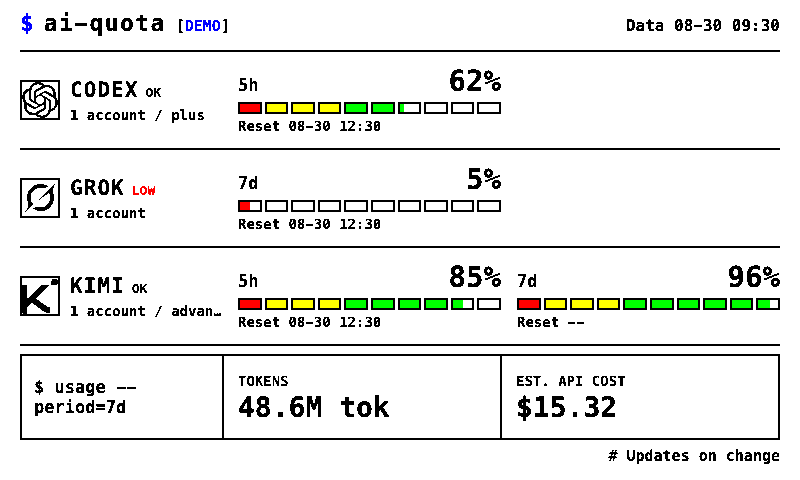
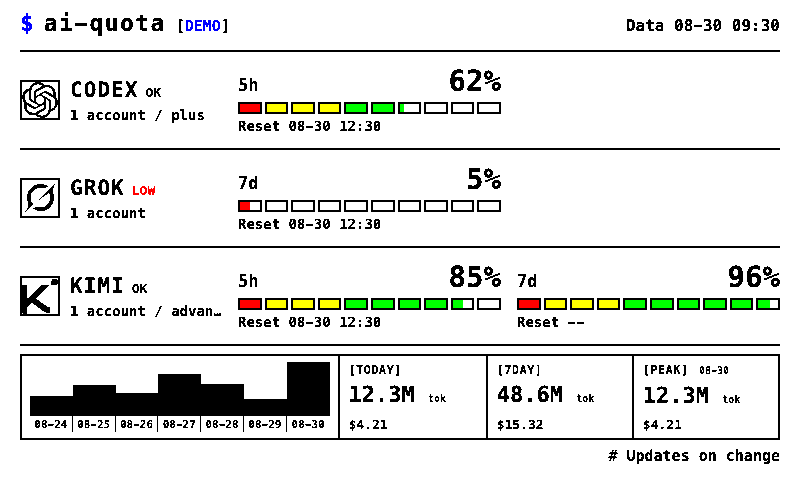
feat: redesign compact usage panel

Changed region(s): [[0.0312, 0.75, 0.5625, 0.9062], [0.5938, 0.75, 0.9375, 0.9062], [0.7812, 0.875, 0.8438, 0.9062]]

diff --git a/internal/dashboard/templates/frame.css b/internal/dashboard/templates/frame.css
@@ -231,7 +231,7 @@ html, body {
   color: var(--faint);
 }
 
-/* seven-day usage summary */
+/* compact seven-day usage panel */
 
 .usage-card {
   display: flex;
@@ -240,29 +240,69 @@ html, body {
   border: 2px solid var(--ink);
 }
 
-.usage-title {
-  display: flex;
-  flex: 0 0 202px;
-  align-items: center;
-  padding: 0 12px;
+.usage-history {
+  flex: 0 0 42%;
+  min-width: 0;
+  padding: 6px 8px 4px;
   border-right: 2px solid var(--ink);
-  font-size: 17px;
+}
+
+.usage-bars {
+  display: flex;
+  width: 100%;
+  height: 70px;
+}
+
+.usage-day {
+  display: flex;
+  flex: 1 1 0;
+  min-width: 0;
+  flex-direction: column;
+}
+
+.usage-bar-slot {
+  display: flex;
+  flex: 1;
+  min-height: 0;
+  align-items: flex-end;
+  border-bottom: 2px solid var(--ink);
+}
+
+.usage-bar {
+  display: block;
+  width: 100%;
+  background: var(--ink);
+}
+
+.usage-date {
+  height: 16px;
+  overflow: hidden;
+  padding-top: 3px;
+  border-right: 1px solid var(--ink);
+  font-size: 11px;
   font-weight: 700;
+  line-height: 11px;
+  text-align: center;
+  white-space: nowrap;
+}
+
+.usage-day:last-child .usage-date {
+  border-right: 0;
 }
 
 .usage-metrics {
-  display: flex;
+  display: grid;
+  grid-template-columns: repeat(3, minmax(0, 1fr));
   flex: 1;
   min-width: 0;
 }
 
 .usage-metric {
   display: flex;
-  flex: 1;
   min-width: 0;
   flex-direction: column;
-  justify-content: center;
-  padding: 6px 14px;
+  justify-content: space-between;
+  padding: 7px 9px 6px;
 }
 
 .usage-metric + .usage-metric {
@@ -270,16 +310,40 @@ html, body {
 }
 
 .usage-label {
-  font-size: 14px;
+  overflow: hidden;
+  font-size: 12px;
+  font-weight: 700;
+  line-height: 14px;
+  letter-spacing: 0.03em;
+  text-overflow: ellipsis;
+  white-space: nowrap;
+}
+
+.usage-label span {
+  margin-left: 3px;
+  font-size: 10px;
+  letter-spacing: 0;
+}
+
+.usage-tokens {
+  overflow: hidden;
+  font-size: 22px;
+  font-weight: 700;
+  line-height: 24px;
+  text-overflow: ellipsis;
+  white-space: nowrap;
+}
+
+.usage-tokens small {
+  font-size: 10px;
   font-weight: 700;
 }
 
-.usage-value {
-  margin-top: 5px;
+.usage-cost {
   overflow: hidden;
-  font-size: 28px;
+  font-size: 13px;
   font-weight: 700;
-  line-height: 1;
+  line-height: 15px;
   text-overflow: ellipsis;
   white-space: nowrap;
 }
@@ -295,7 +359,7 @@ html, body {
 }
 
 .usage-unavailable strong {
-  font-size: 24px;
+  font-size: 22px;
   letter-spacing: 0.08em;
 }
 

diff --git a/internal/dashboard/templates/frame.html b/internal/dashboard/templates/frame.html
@@ -54,21 +54,43 @@
 
     <section class="usage-card">
       {{if .Usage}}
-      <div class="usage-title">$ usage --period=7d</div>
+      <div class="usage-history" aria-label="7 day token history">
+        <div class="usage-bars">
+          {{range .Usage.Days}}
+          <div class="usage-day" title="{{.Title}}">
+            <div class="usage-bar-slot"><span class="usage-bar" style="height: {{.Height}}%;"></span></div>
+            <span class="usage-date">{{.Label}}</span>
+          </div>
+          {{end}}
+        </div>
+      </div>
       <div class="usage-metrics">
+        {{with .Usage.Today}}
         <div class="usage-metric">
-          <span class="usage-label">TOKENS</span>
-          <span class="usage-value">{{.Usage.Tokens}}</span>
+          <div class="usage-label">[{{.Label}}]</div>
+          <div class="usage-tokens">{{.Tokens}} <small>tok</small></div>
+          <div class="usage-cost">{{.Cost}}</div>
         </div>
+        {{end}}
+        {{with .Usage.SevenDay}}
         <div class="usage-metric">
-          <span class="usage-label">EST. API COST</span>
-          <span class="usage-value">{{.Usage.Cost}}</span>
+          <div class="usage-label">[{{.Label}}]</div>
+          <div class="usage-tokens">{{.Tokens}} <small>tok</small></div>
+          <div class="usage-cost">{{.Cost}}</div>
         </div>
+        {{end}}
+        {{with .Usage.Peak}}
+        <div class="usage-metric">
+          <div class="usage-label">[{{.Label}}] <span>{{.Note}}</span></div>
+          <div class="usage-tokens">{{.Tokens}} <small>tok</small></div>
+          <div class="usage-cost">{{.Cost}}</div>
+        </div>
+        {{end}}
       </div>
       {{else}}
       <div class="usage-unavailable">
         <span>$ usage --period=7d</span>
-        <strong>UNAVAILABLE</strong>
+        <strong>NO USAGE DATA</strong>
       </div>
       {{end}}
     </section>

diff --git a/internal/dashboard/viewmodel.go b/internal/dashboard/viewmodel.go
@@ -44,6 +44,21 @@ type barSegmentData struct {
 }
 
 type usageData struct {
+	Days     []usageDayData
+	Today    usageMetricData
+	SevenDay usageMetricData
+	Peak     usageMetricData
+}
+
+type usageDayData struct {
+	Label  string
+	Height int
+	Title  string
+}
+
+type usageMetricData struct {
+	Label  string
+	Note   string
 	Tokens string
 	Cost   string
 }
@@ -176,10 +191,72 @@ func buildUsageData(usage *quota.Usage) *usageData {
 	if currency == "" {
 		currency = "$"
 	}
-	return &usageData{
-		Tokens: formatTokens(sumTokens(usage.Days)) + " tok",
-		Cost:   fmt.Sprintf("%s%.2f", currency, sumCost(usage.Days)),
+	days := usage.Days
+	if len(days) > 7 {
+		days = days[len(days)-7:]
 	}
+
+	var peak quota.UsageDay
+	var maxTokens int64
+	for _, day := range days {
+		if day.Tokens > maxTokens {
+			maxTokens = day.Tokens
+			peak = day
+		}
+	}
+
+	chartDays := make([]usageDayData, 0, len(days))
+	for _, day := range days {
+		chartDays = append(chartDays, usageDayData{
+			Label:  formatUsageDate(day.Date),
+			Height: usageBarHeight(day.Tokens, maxTokens),
+			Title:  formatTokens(day.Tokens) + " tok",
+		})
+	}
+
+	return &usageData{
+		Days: chartDays,
+		Today: usageMetricData{
+			Label:  "TODAY",
+			Tokens: formatTokens(usage.TodayTokens),
+			Cost:   fmt.Sprintf("%s%.2f", currency, usage.TodayCost),
+		},
+		SevenDay: usageMetricData{
+			Label:  "7DAY",
+			Tokens: formatTokens(sumTokens(days)),
+			Cost:   fmt.Sprintf("%s%.2f", currency, sumCost(days)),
+		},
+		Peak: usageMetricData{
+			Label:  "PEAK",
+			Note:   formatUsageDate(peak.Date),
+			Tokens: formatTokens(peak.Tokens),
+			Cost:   fmt.Sprintf("%s%.2f", currency, peak.Cost),
+		},
+	}
+}
+
+func formatUsageDate(value string) string {
+	if parsed, err := time.Parse("2006-01-02", value); err == nil {
+		return parsed.Format("01-02")
+	}
+	if len(value) > 5 {
+		return value[len(value)-5:]
+	}
+	return value
+}
+
+func usageBarHeight(value, maximum int64) int {
+	if value <= 0 || maximum <= 0 {
+		return 0
+	}
+	height := int(float64(value) / float64(maximum) * 100)
+	if height < 4 {
+		return 4
+	}
+	if height > 100 {
+		return 100
+	}
+	return height
 }
 
 func sumTokens(days []quota.UsageDay) int64 {

diff --git a/internal/dashboard/viewmodel_test.go b/internal/dashboard/viewmodel_test.go
@@ -23,11 +23,31 @@ func TestBuildFrameDataSummarizesSevenDayUsage(t *testing.T) {
 	if data.Usage == nil {
 		t.Fatal("Usage = nil, want seven-day summary")
 	}
-	if data.Usage.Tokens != "4.6M tok" {
-		t.Fatalf("Usage.Tokens = %q, want %q", data.Usage.Tokens, "4.6M tok")
+	if data.Usage.Today.Tokens != "999" || data.Usage.Today.Cost != "€9.99" {
+		t.Fatalf("Usage.Today = %#v, want current usage values", data.Usage.Today)
 	}
-	if data.Usage.Cost != "€3.75" {
-		t.Fatalf("Usage.Cost = %q, want %q", data.Usage.Cost, "€3.75")
+	if data.Usage.SevenDay.Tokens != "4.6M" || data.Usage.SevenDay.Cost != "€3.75" {
+		t.Fatalf("Usage.SevenDay = %#v, want seven-day summary", data.Usage.SevenDay)
+	}
+	if data.Usage.Peak.Tokens != "3.4M" || data.Usage.Peak.Cost != "€2.50" || data.Usage.Peak.Note != "09-01" {
+		t.Fatalf("Usage.Peak = %#v, want peak day summary", data.Usage.Peak)
+	}
+	if len(data.Usage.Days) != 2 || data.Usage.Days[0].Height != 35 || data.Usage.Days[1].Height != 100 {
+		t.Fatalf("Usage.Days = %#v, want normalized compact chart", data.Usage.Days)
+	}
+}
+
+func TestBuildUsageDataKeepsOnlyLatestSevenDays(t *testing.T) {
+	days := make([]quota.UsageDay, 8)
+	for index := range days {
+		days[index] = quota.UsageDay{Date: time.Date(2026, time.January, index+1, 0, 0, 0, 0, time.UTC).Format("2006-01-02"), Tokens: int64(index + 1)}
+	}
+	data := buildUsageData(&quota.Usage{Currency: "$", Days: days})
+	if len(data.Days) != 7 || data.Days[0].Label != "01-02" || data.Days[6].Label != "01-08" {
+		t.Fatalf("Days = %#v, want latest seven dates", data.Days)
+	}
+	if data.SevenDay.Tokens != "35" || data.Peak.Note != "01-08" {
+		t.Fatalf("summary = %#v/%#v, want values based on latest seven days", data.SevenDay, data.Peak)
 	}
 }
 

diff --git a/internal/dashboard/render_test.go b/internal/dashboard/render_test.go
@@ -28,7 +28,7 @@ func TestRenderHTMLProducesDocument(t *testing.T) {
 	if err != nil {
 		t.Fatalf("renderHTML() error = %v", err)
 	}
-	for _, needle := range []string{"ai-quota", "CODEX", "<style>", "bar-segment-fill", "usage-card", "7d"} {
+	for _, needle := range []string{"ai-quota", "CODEX", "<style>", "bar-segment-fill", "usage-history", "[TODAY]", "[7DAY]", "[PEAK]"} {
 		if !strings.Contains(html, needle) {
 			t.Fatalf("renderHTML() missing %q", needle)
 		}

diff --git a/internal/dashboard/README.md b/internal/dashboard/README.md
@@ -7,7 +7,7 @@
 | 文件 | 作用 |
 |---|---|
 | `templates/frame.html` | 页面结构与 `{{.字段}}` 数据绑定 |
-| `templates/frame.css` | 终端风布局、六色样式、大字号和 7 日总量卡 |
+| `templates/frame.css` | 终端风布局、六色样式、大字号和紧凑 7 日用量面板 |
 | `viewmodel.go` | 把 `quota.Snapshot` 转成模板数据 |
 | `providers.go` | `DISPLAY_PROVIDERS` 解析与默认订阅行 |
 | `layout.go` | 按配置的 provider 行聚合额度窗口 |
@@ -28,9 +28,9 @@ codex:CODEX,kimi:KIMI,gemini-cli+antigravity:GEMINI
 
 空值使用默认 `codex,xai,kimi`（标签为 CODEX / GROK / KIMI）。
 
-## 近 7 日总量卡
+## 近 7 日用量面板
 
-汇总 `usage.days[]` 的 token 与 API 折合价格，只显示两个大数字，不再绘制每日柱状图。`usage.days[]` 缺失时显示 `UNAVAILABLE`；不会用 today 字段代替 7 日数据。
+左侧把 `usage.days[]` 的最近 7 天 token 归一化成紧邻的纯黑柱状图，右侧以纯黑白三列显示 TODAY、7DAY 和 PEAK 的 token 与 API 折合价格。`usage.days[]` 缺失时显示 `NO USAGE DATA`；不会用 today 字段伪造 7 日数据。
 
 ## 额度进度条
 
